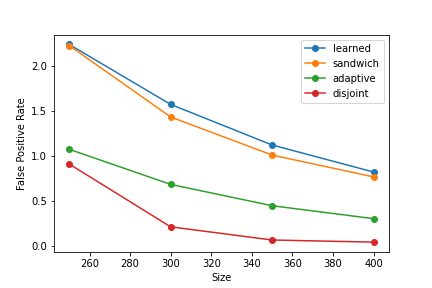
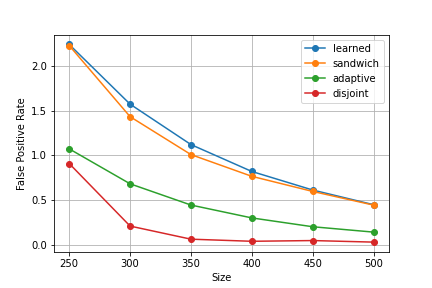
Sandwich Bloom filter impl + journal

diff --git a/src/bloom_filters/sandwich.py b/src/bloom_filters/sandwich.py
@@ -1,0 +1,138 @@
+from operator import pos
+from pathlib import Path
+import numpy as np
+import pandas as pd
+import argparse
+import math
+import serialize
+import pickle
+from naive import BloomFilter
+
+class Abstract_Filter:
+    def query(self, query_set): pass
+     
+    def save(self, path):
+        serialize.save_model(self,path) 
+
+class SLBF(Abstract_Filter):
+    def __init__(self, keys, filter_size_b1, filter_size_b2, threshold):
+        '''
+        keys: array nella forma
+            data    score
+        '''
+        self.filter_size_b1 = filter_size_b1
+        self.filter_size_b2 = filter_size_b2
+        self.threshold = threshold
+
+        self.initial_keys = keys
+        self.initial_bf = BloomFilter(len(self.initial_keys), int(filter_size_b1 * len(self.initial_keys)))
+        self.initial_bf.insert(self.initial_keys.iloc[:, 1])
+        self.backup_keys = keys[(keys.iloc[:, -1] <= threshold)]
+        self.backup_bf = BloomFilter(len(self.backup_keys), int(filter_size_b2 * len(self.initial_keys)))
+        self.backup_bf.insert(self.backup_keys.iloc[:, 1])
+
+    def query(self, query_set):
+        '''
+        query_set: array nella forma
+            data    score
+        '''
+
+        ml_false_positive = (query_set.iloc[:, -1] > self.threshold)
+        ml_true_negative = (query_set.iloc[:, -1] <= self.threshold)
+
+        initial_bf_false_positive = self.initial_bf.test(query_set.iloc[:, 1], single_key = False)
+        ml_false_positive_list = query_set.iloc[:, 1][(initial_bf_false_positive) & (ml_false_positive)]
+        ml_true_negative_list = query_set.iloc[:, 1][(initial_bf_false_positive) & (ml_true_negative)]
+        backup_bf_false_positive = self.backup_bf.test(ml_true_negative_list, single_key = False)
+        total_false_positive = sum(backup_bf_false_positive) + len(ml_false_positive_list)
+
+        return total_false_positive
+
+
+def train_slbf(filter_size, query_train_set, keys, quantile_order):
+    train_dataset = np.array(pd.concat([query_train_set, keys]).iloc[:, -1])
+    thresholds_list = [np.quantile(train_dataset, i * (1 / quantile_order)) for i in range(1, quantile_order)] if quantile_order < len(train_dataset) else np.sort(train_dataset)
+    thresh_third_quart_idx = (3 * len(thresholds_list) - 1) // 4
+
+    print(query_train_set.shape)
+    fp_opt = query_train_set.shape[0]
+    slbf_opt = None
+    
+    print(thresholds_list)
+    for threshold in thresholds_list:
+        # print("Threshold: ", threshold)
+        # print("FP_opt: ", fp_opt)
+        ml_false_positive = (query_train_set.iloc[:, -1] > threshold)
+        ml_false_negative = (keys.iloc[:, -1] <= threshold)
+
+        FP = (query_train_set[ml_false_positive].iloc[:, 1].size) / (query_train_set.iloc[:, 1].size + 1)
+        FN = (keys[ml_false_negative].iloc[:, 1].size) / (keys.iloc[:, 1].size + 1)
+
+        if (FP == 0.0 or FP == 1.0) or (FN == 1.0 or FN == 0.0): continue
+
+        b2 = FN * math.log(FP / ((1 - FP) * ((1/FN) - 1)), 0.6185)
+        b1 = filter_size - b2
+        if b1 <= 0:
+            print("b1 = 0")
+            break
+
+        # print(f"FP: {FP}, FN: {FN}, b: {filter_size}, b1: {b1}, b2: {b2}")
+
+        slbf = SLBF(keys, b1, b2, threshold)
+        fp_items = slbf.query(query_train_set)
+        # print(f"Current threshold: {threshold}, False positive items: {fp_items}")
+        if fp_items < fp_opt:
+            fp_opt = fp_items
+            slbf_opt = slbf
+            print("Found something more optimal!")
+        
+    print(f"Chosen thresholds: {slbf_opt.threshold}")
+    
+    return slbf_opt, fp_opt
+    
+def load_filter(path):
+    with open(path,"rb") as filter_file:
+        slbf = pickle.load(filter_file)
+    return slbf
+
+def main(DATA_PATH_train, R_sum, others):
+    parser = argparse.ArgumentParser()
+    parser.add_argument('--thresholds_q', action = "store", dest = "thresholds_q", type = int, required = True, help = "order of quantiles to be tested")
+    results = parser.parse_args(others)
+
+    thresholds_q = results.thresholds_q
+
+    '''
+    Load the data and select training data
+    '''
+    data = pd.read_csv(DATA_PATH_train)
+    train_negative_sample = data.loc[(data['label'] == -1)].sample(frac=0.3)
+    positive_sample = data.loc[(data['label'] == 1)]
+    b = R_sum / len(positive_sample)
+
+    # print(train_negative_sample.shape)
+    # print(positive_sample.shape)
+
+    '''Stage 1: Find the hyper-parameters (spare 30% samples to find the parameters)'''
+    slbf_opt, fp_opt = train_slbf(b, train_negative_sample, positive_sample, thresholds_q)
+
+    # Evaluation
+    negative_samples = data.loc[(data['label'] == -1)]
+    neg_above_t = negative_samples.loc[(negative_samples['score'] > slbf_opt.threshold)]
+    neg_below_t = negative_samples.loc[(negative_samples['score'] <= slbf_opt.threshold)]
+
+    fp_test = slbf_opt.query(neg_below_t)
+    fps = fp_test + len(neg_above_t)
+    fpr = fps*100./len(negative_samples)
+
+    print('Bloom Filter w/ Size', R_sum)
+    print('False positive items', fps)
+    print('False positive rate: ', fpr)
+    print('----------')
+
+if __name__ == '__main__':
+    parser = argparse.ArgumentParser()
+    parser.add_argument('--data_path', action = "store", dest = "data_path", type = str, required = True, help = "path of the dataset")
+    parser.add_argument('--size_of_BF', action = "store", dest = "R_sum", type = int, required = True, help = "size of the Ada-BF")
+    result =parser.parse_known_args()  
+    main(result[0].data_path, result[0].R_sum, result[1])

diff --git a/journal.md b/journal.md
@@ -1,5 +1,12 @@
 # Journal
 
+**April 11, 2022**
+It has been some time since contributing to the repo, but I was able to knock out a couple tasks and am at the point where I'm ready to put a project report together. I was able to finish the implementation for the sandwiched bloom filter, which was not as difficult as I thought it was going to be. It just involved strapping a bloom filter to the learned filter, where it would filter out as many false negatives as possible before forwarding the remaining values to the classifier + backup bloom filter pipeline. The trend line of FPR performance for the sandwiched filter closely follows the learned filter's trajectory, which makes sense given that their designs are nearly the same, with the exception of a filter that is capable of eliminating just a couple of false negatives produced by the classifier. 
+
+I was also able to run all of the filters on the malicious URL dataset and generate a fairly clean set of FPR trend lines (code + images are in the `etc` folder). I think for next steps, I'll fill out the report with my current progress and see how much content I have. I think it'd be interesting to run these tests on datasets with differents distribution shapes to see how the underlying pattern of data influences the FPR of the bloom filters. I also want to explore creating and integrating an actually classifier into the learned bloom filter pipeline. I think it'll be interesting to see how this affects inference time, and would be much closer to something that can actually be used in a more formal, production setting.
+
+Last but not least, for the discussion section of the paper, I think it'd be interesting to take a look at how the search for optimal parameters of specific learned bloom filters varies as the size of the bloom filter increases. Examining the weights of a model might also be interesting in order to better understanding what is actually being learned, although the degree of insights would be affected by what kind of model is actually used.
+
 **April 2, 2022**
 Finished the disjoint adaptive bloom filter implementation. This approach made a slight adjustment to the original adaptive bloom filter implementation. It keeps pretty much the same logic as before, in terms of separating a distribution into `g` groups, each with its own set of hash functions. However, the key difference is that with the vanilla adaptive bloom filter, the outputs of the hash function are aggregated and saved into the same bloom filter. With the disjoint adaptive bloom filter, the results are saved by independent bloom filters. This should yield a lower false positive rate, as independent buckets, instead of a single aggregated bucket, draw more distinct boundaries between which values are in which groups.
 

diff --git a/src/bloom_filters/README.md b/src/bloom_filters/README.md
@@ -30,6 +30,16 @@ Implementation for learned bloom filter. The implementation accounts for the `sc
 python3 learned.py --size_of_BF 100000 --data_path ../data/URL_data.csv --thres_max 0.95 --thres_min 0.05
 ```
 
+### Sandwich
+Proposed in *A Model for Learned Bloom Filters, and Optimizing by Sandwiching (Mitzenmacher 2018)*
+
+Implementation for sandwiched bloom filter. This implementation takes after the learned bloom filter, but appends an additional naive bloom filter to the front of the learned bloom filter pipeline. The initial bloom filter, coming before the classifier, has the responsibility of filtering out definitive true negatives to reduce the number of possible false negatives that the classifier might generate. The set of parameters is quite similar, with the exception that instead of a max/min threshold, the code takes in a thresholds quantile argument instead that tests thresholds divided into `thresholds_q` uniform ranges from 0 to 1.
+
+**Example Run**
+```
+python3 sandwich.py --size_of_BF 10000 --data_path ../data/URL_data.csv --thresholds_q 10
+```
+
 ### Adaptive
 Proposed in *Adaptive Learned Bloom Filter (Ada-BF): Efficient Utilization of the Classifier (Dai 2020)*
 > `adaptive.py`
@@ -70,7 +80,6 @@ python disjoint.py --data_path ../data/URL_data.csv --size_of_BF 200000 --group_
 ```
 
 ### References
-* [COS 598D Assignment 4](https://github.com/yushansu/COS598D_Assignment4)
 * [Optimal num of hash functions](https://freecontent.manning.com/all-about-bloom-filters/)
 * [The Case for Learned Index Structures](https://arxiv.org/abs/1712.01208)
 * [Adaptive Learned Bloom Filter](https://openreview.net/pdf?id=rJlNKCNtPB)
